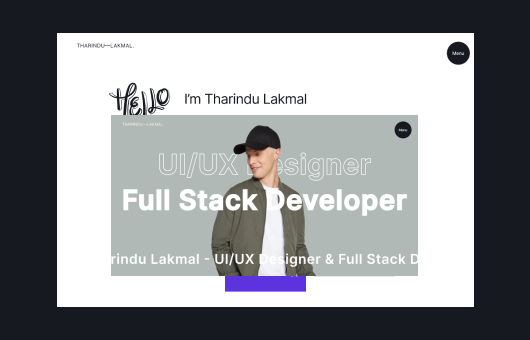
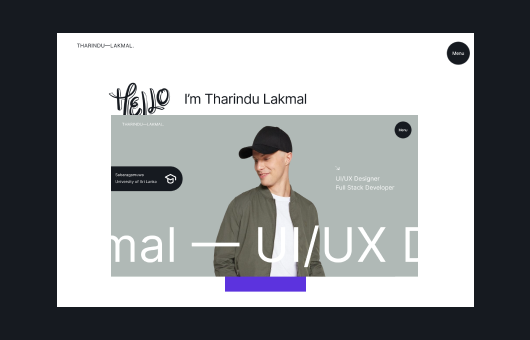
profile pic added

Changed region(s): [[0.2113, 0.3529, 0.7849, 0.8235]]

diff --git a/frontend/src/components/Home/Hero/Hero.css b/frontend/src/components/Home/Hero/Hero.css
@@ -200,6 +200,10 @@
         padding-inline-end: 3%;
     }
 
+    .text-inner-right img {
+        width: 32px;
+    }
+
     .first-header, .second-header {
         font-size: 4vw;
     }
@@ -282,6 +286,6 @@
 
 @media only screen and (min-width:1400px) {
     
-    .first-header, .second-header {
-    }
+    /* .first-header, .second-header {
+    } */
 }
